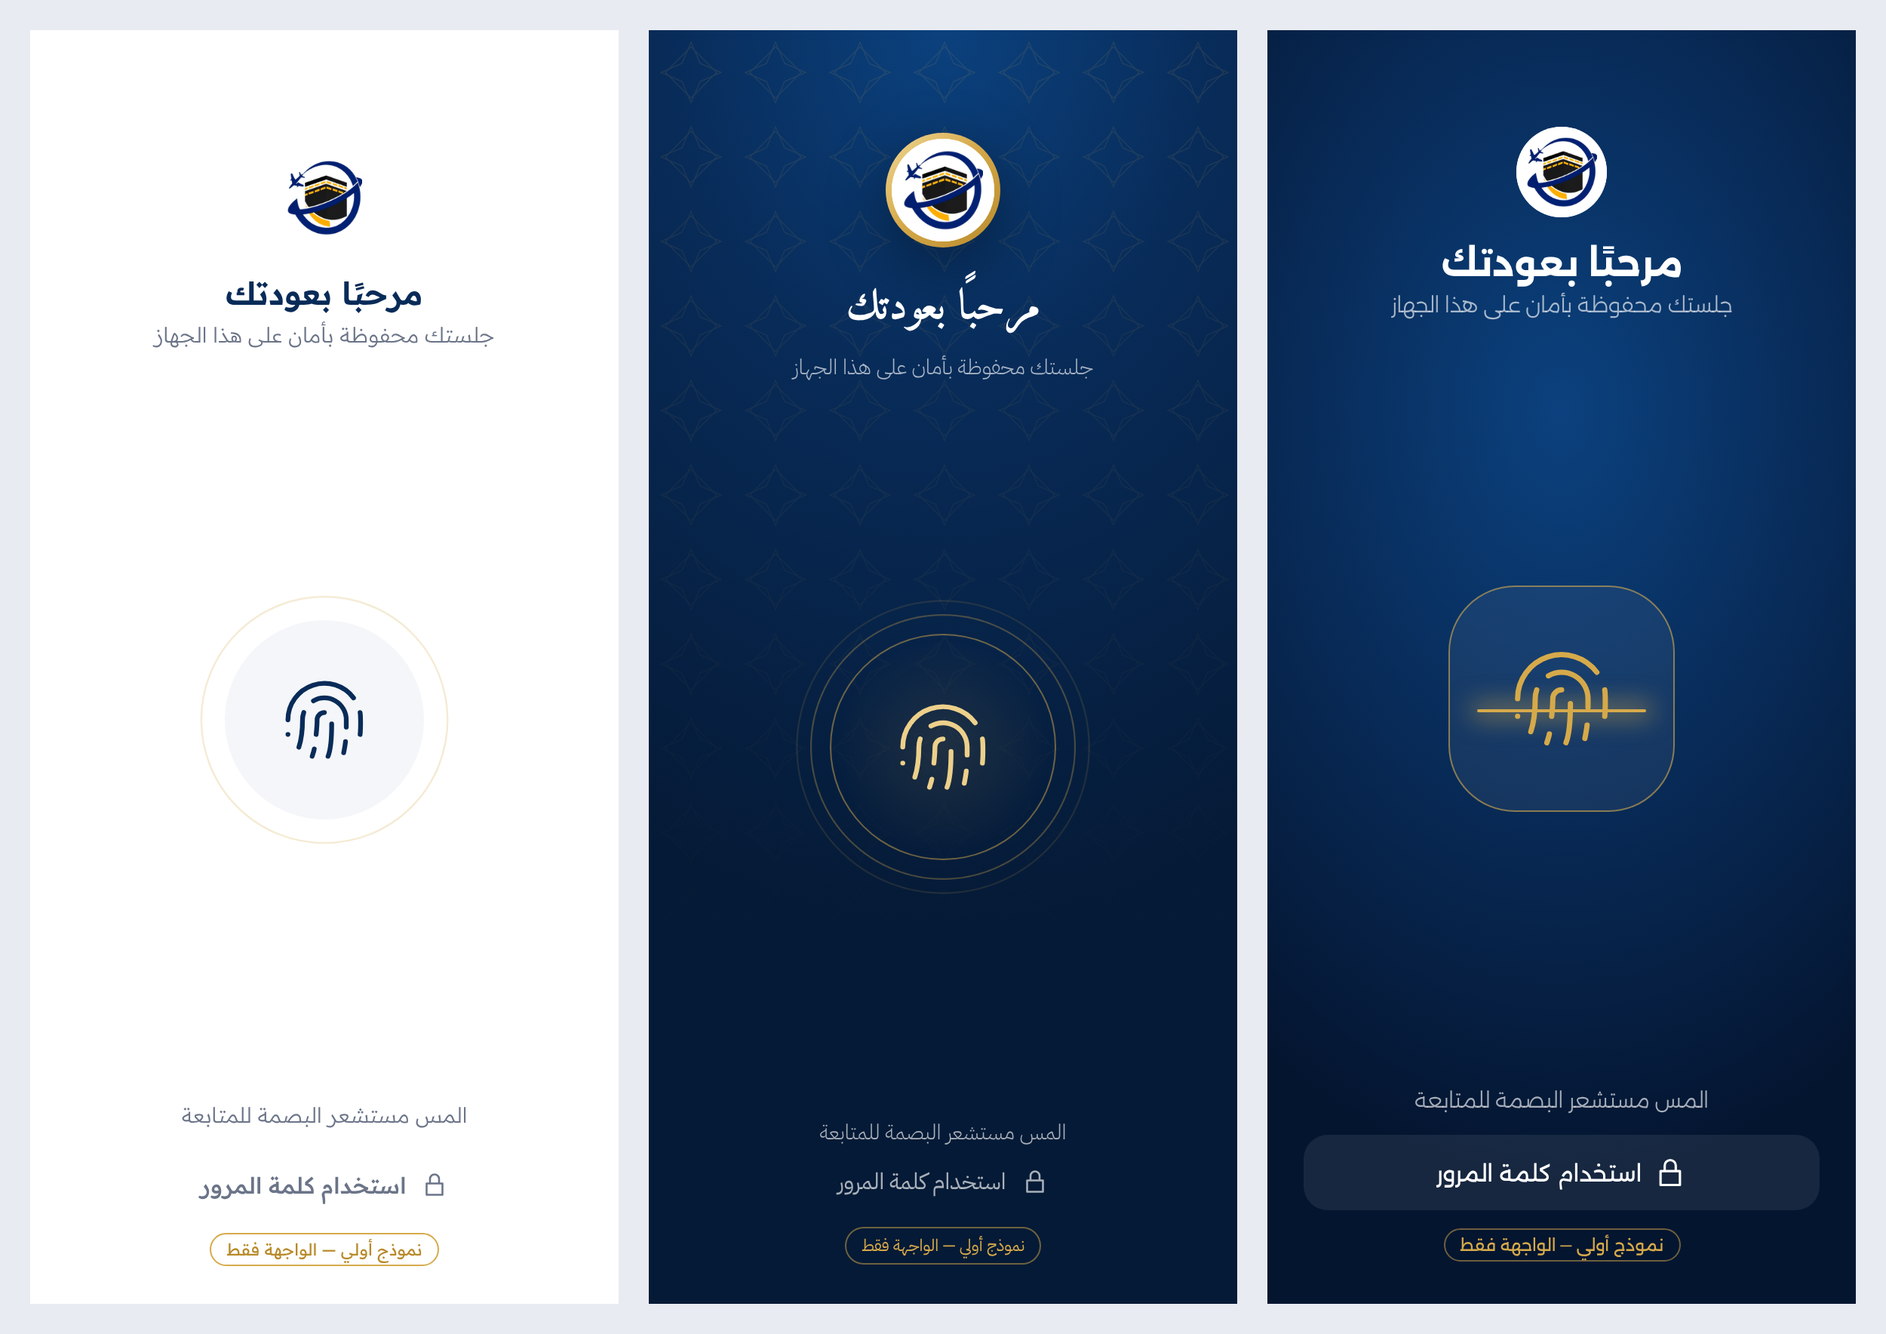
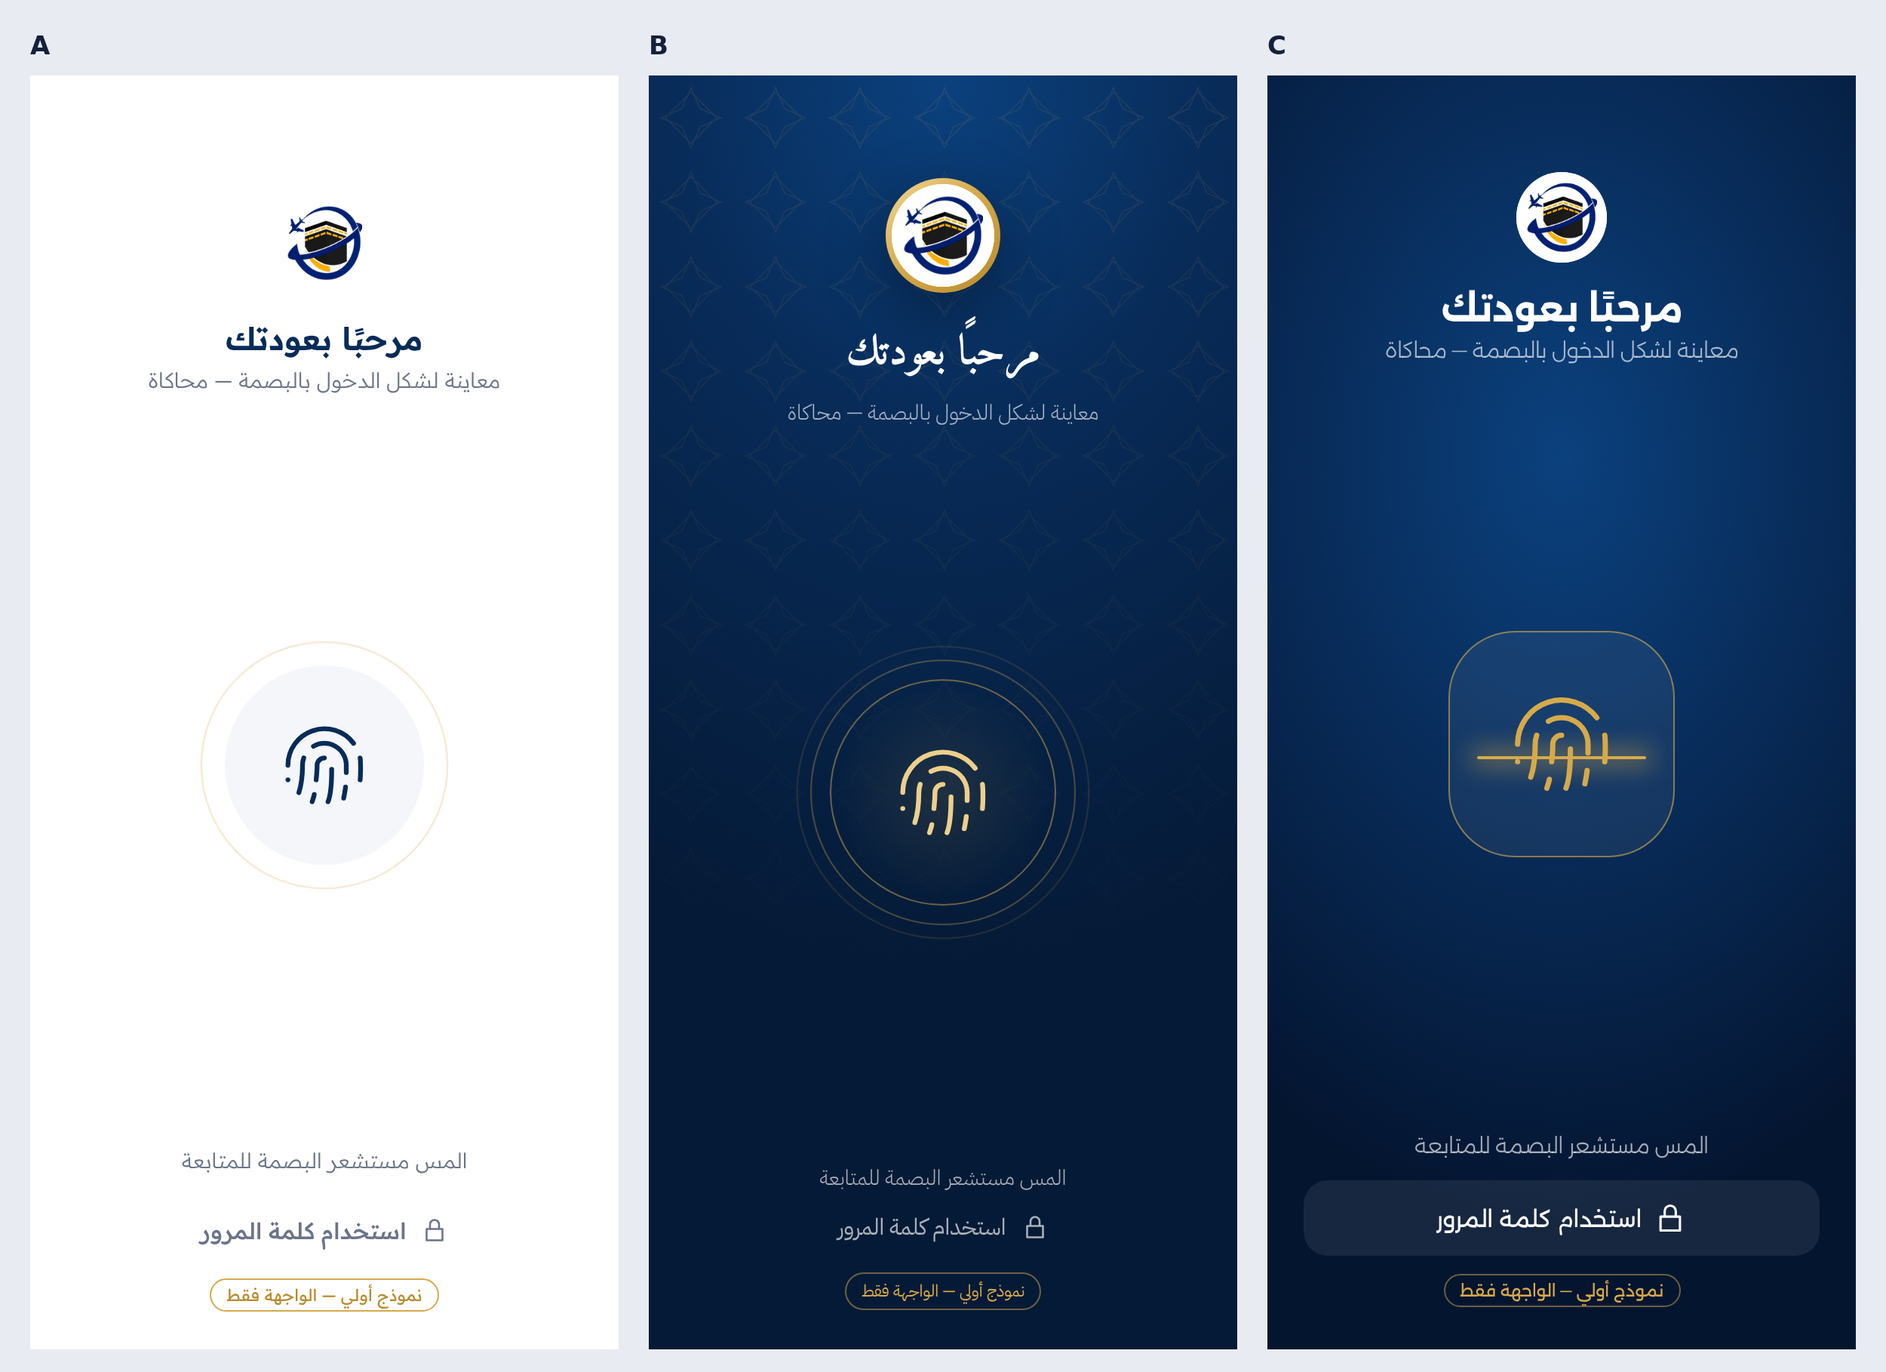
design(mobile): final proposal fixes — 48px targets, 2x2 steps, biometric simulation
Prototype only, inside mobile/design-concepts/:
- every touch target is at least 48x48px
- request steps switch to 2x2 when narrow (container query, follows text zoom)
- biometric screen is an explicit simulation: no session/security claims,
  tap only changes on-screen text (same wording fix in concepts A/B/C)
- checker now covers vertical clipping, parent clipping and touch sizes,
  labels 130% zoom as a Chromium simulation (not an Android test) and
  writes screens/final/checks/run-results.txt

Claude-Session: https://claude.ai/code/session_01EF61v88GwqaFUaS6TBG3ia

diff --git a/mobile/design-concepts/final.html b/mobile/design-concepts/final.html
@@ -23,6 +23,7 @@
 html,body{height:100%}
 body{font-family:var(--f);background:var(--night);color:var(--ink);-webkit-font-smoothing:antialiased}
 button{font:inherit;cursor:pointer;border:0;background:none;color:inherit}
+[hidden]{display:none!important}
 button:focus-visible{outline:2px solid var(--gold-hi);outline-offset:2px}
 .ic{width:1.375rem;height:1.375rem;flex:none}
 #app{height:100%;display:flex;flex-direction:column;overflow:hidden;position:relative}
@@ -57,15 +58,17 @@ button:focus-visible{outline:2px solid var(--gold-hi);outline-offset:2px}
 
 /* Returning */
 .r{position:relative;flex:1;display:flex;flex-direction:column;align-items:center;padding:1.5rem 1.25rem 1.25rem;overflow-y:auto}
-.r .medal{width:4.25rem;height:4.25rem;margin-top:3vh}
+.r .medal{width:4.25rem;height:4.25rem;margin-top:1.25rem}
 .r h2{font-weight:600;font-size:1.5rem;margin-top:.9rem;color:#fff}
 .r p{color:var(--on-navy);font-size:.9375rem;margin-top:.25rem;text-align:center}
 .fp{margin:auto;width:8.5rem;height:8.5rem;flex:none;border-radius:50%;display:grid;place-items:center;color:var(--gold-hi);position:relative;border:1.5px solid rgba(214,170,75,.7);background:radial-gradient(circle,rgba(214,170,75,.16),transparent 70%)}
 .fp .ic{width:3.75rem;height:3.75rem;stroke-width:1.3}
 .fp::after{content:"";position:absolute;inset:-12px;border-radius:50%;border:1px solid rgba(214,170,75,.45);animation:halo 2.8s ease-out infinite}
 @keyframes halo{0%{transform:scale(.92);opacity:1}100%{transform:scale(1.2);opacity:0}}
-.proto{display:flex;align-items:center;gap:.5rem;margin-top:.9rem;font-size:.8125rem;color:var(--gold-hi);background:rgba(214,170,75,.12);border:1px solid rgba(214,170,75,.55);border-radius:12px;padding:.5rem .8rem;text-align:start}
-.proto .ic{width:1rem;height:1rem}
+.sim{position:relative;width:100%;display:flex;align-items:flex-start;gap:.5rem;font-size:.8125rem;color:var(--gold-hi);background:rgba(214,170,75,.12);border:1px solid rgba(214,170,75,.55);border-radius:12px;padding:.5rem .8rem;text-align:start}
+.sim .ic{width:1.1rem;height:1.1rem;margin-top:.1rem}
+.sim b{font-weight:600}
+#simstate{min-height:1.5em}
 .r .stack{width:100%;display:grid;gap:.6rem;margin-top:1rem}
 
 /* App header — compact */
@@ -76,8 +79,8 @@ button:focus-visible{outline:2px solid var(--gold-hi);outline-offset:2px}
 .bar .t{flex:1;min-width:0}
 .bar .t small{display:block;color:var(--on-navy);font-size:.75rem}
 .bar .t b{font-weight:600;font-size:1.125rem}
-.ring{flex:none;width:2.75rem;height:2.75rem;border-radius:50%;border:1px solid rgba(214,170,75,.6);display:grid;place-items:center;color:var(--gold-hi)}
-.search{position:relative;margin-top:.8rem;display:flex;align-items:center;gap:.6rem;min-height:2.75rem;border-radius:12px;background:rgba(255,255,255,.12);border:1px solid rgba(255,255,255,.22);padding:0 .85rem;color:var(--on-navy);font-size:.875rem}
+.ring{flex:none;width:max(48px,3rem);height:max(48px,3rem);border-radius:50%;border:1px solid rgba(214,170,75,.6);display:grid;place-items:center;color:var(--gold-hi)}
+.search{position:relative;width:100%;text-align:start;margin-top:.8rem;display:flex;align-items:center;gap:.6rem;min-height:max(48px,3rem);border-radius:12px;background:rgba(255,255,255,.12);border:1px solid rgba(255,255,255,.22);padding:0 .85rem;color:var(--on-navy);font-size:.875rem}
 .search .ic{width:1.1rem;height:1.1rem}
 
 .body{flex:1;overflow-y:auto;background:var(--pearl);padding:1rem 1rem 1.25rem}
@@ -88,30 +91,37 @@ button:focus-visible{outline:2px solid var(--gold-hi);outline-offset:2px}
 .umrah .archlet{position:relative;grid-row:span 2;width:2.9rem;height:3.4rem;border-radius:1.45rem 1.45rem 7px 7px;border:1px solid var(--gold);display:grid;place-items:center;color:var(--gold-hi)}
 .umrah h3{position:relative;font-weight:600;font-size:1.0625rem}
 .umrah p{position:relative;font-size:.8125rem;color:var(--on-navy);line-height:1.5}
-.umrah .cta{position:relative;grid-column:1 / -1;margin-top:.6rem;min-height:2.75rem;border-radius:12px;background:var(--leaf);color:var(--night);font-weight:600;font-size:.9375rem;display:flex;align-items:center;justify-content:center;gap:.5rem}
+.umrah .cta{position:relative;grid-column:1 / -1;margin-top:.6rem;min-height:max(48px,3rem);border-radius:12px;background:var(--leaf);color:var(--night);font-weight:600;font-size:.9375rem;display:flex;align-items:center;justify-content:center;gap:.5rem}
 .umrah .cta .ic{width:1.1rem;height:1.1rem}
 
 .sec{display:flex;align-items:center;gap:.6rem;margin:1.25rem 0 .7rem}
 .sec h4{font-weight:600;font-size:1rem;color:var(--ink)}
 .sec i{flex:1;height:1px;background:var(--line)}
-.sec a{font-size:.8125rem;color:var(--gold-ink);font-weight:600;text-decoration:none;padding:.4rem 0}
+.sec a{display:inline-flex;align-items:center;justify-content:center;min-height:48px;min-width:48px;padding:0 .3rem;font-size:.8125rem;color:var(--gold-ink);font-weight:600;text-decoration:none}
 .tiles{display:grid;grid-template-columns:repeat(3,minmax(0,1fr));gap:.6rem}
 .tile{background:var(--card);border:1px solid var(--line);border-radius:14px;padding:.75rem .35rem;display:flex;flex-direction:column;align-items:center;gap:.45rem;text-align:center;font-size:.8125rem;line-height:1.4;color:var(--ink);min-height:5.5rem;overflow-wrap:anywhere}
 .tile .ic{color:var(--navy);width:1.4rem;height:1.4rem}
 
-/* Steps (from C) */
+/* Steps (from C) — 4 across when roomy, 2×2 when narrow */
+.stepsbox{container-type:inline-size}
 .steps{display:grid;grid-template-columns:repeat(4,minmax(0,1fr));gap:.25rem;background:var(--card);border:1px solid var(--line);border-radius:16px;padding:.85rem .4rem;position:relative}
 .steps::before{content:"";position:absolute;top:1.65rem;right:12.5%;left:12.5%;height:2px;background:repeating-linear-gradient(270deg,var(--gold) 0 6px,transparent 6px 11px)}
 .step{display:flex;flex-direction:column;align-items:center;gap:.4rem;text-align:center;font-size:.75rem;line-height:1.4;color:var(--muted);position:relative;overflow-wrap:anywhere}
 .step i{width:1.75rem;height:1.75rem;border-radius:50%;background:var(--navy);color:#fff;font-style:normal;font-weight:600;font-size:.8125rem;display:grid;place-items:center;box-shadow:0 0 0 4px var(--card)}
 .step:first-child i{background:var(--gold);color:var(--night)}
+@container (max-width:22rem){
+  .steps{grid-template-columns:repeat(2,minmax(0,1fr));gap:.5rem;padding:.6rem}
+  .steps::before{display:none}
+  .step{flex-direction:row;text-align:start;gap:.5rem;padding:.45rem .5rem;border-radius:10px;background:var(--pearl);min-height:3rem}
+  .step i{flex:none;box-shadow:none}
+}
 
 .guest{margin-top:.7rem;border-radius:16px;padding:.85rem;display:flex;align-items:center;gap:.7rem;background:var(--card);border:1px solid var(--line)}
 .guest>.ic{color:var(--gold-ink)}
 .guest div{flex:1;min-width:0}
 .guest b{display:block;font-size:.875rem;font-weight:600}
 .guest small{color:var(--muted);font-size:.8125rem}
-.guest .mini{flex:none;background:var(--navy);color:#fff;border-radius:10px;min-height:2.5rem;padding:0 .9rem;font-size:.875rem;font-weight:500}
+.guest .mini{flex:none;background:var(--navy);color:#fff;border-radius:10px;min-height:max(48px,3rem);min-width:48px;padding:0 .9rem;font-size:.875rem;font-weight:500}
 
 /* Services list (from A) */
 .group h5{display:flex;align-items:center;gap:.5rem;font-size:.875rem;color:var(--navy);font-weight:600;margin:1.1rem .1rem .45rem}
@@ -126,7 +136,7 @@ button:focus-visible{outline:2px solid var(--gold-hi);outline-offset:2px}
 
 /* Bottom nav — in the flex flow, never overlays content */
 .nav{flex:none;display:flex;background:var(--night);padding:.45rem .25rem calc(.55rem + env(safe-area-inset-bottom,0px));border-top:1px solid rgba(214,170,75,.3)}
-.nav button{flex:1;min-width:0;min-height:3rem;display:flex;flex-direction:column;align-items:center;justify-content:center;gap:.2rem;font-size:.75rem;color:rgba(255,255,255,.72)}
+.nav button{flex:1;min-width:48px;min-height:max(48px,3rem);display:flex;flex-direction:column;align-items:center;justify-content:center;gap:.2rem;font-size:.75rem;color:rgba(255,255,255,.72)}
 .nav button.on{color:var(--gold-hi);font-weight:500}
 </style>
 </head>
@@ -137,6 +147,8 @@ button:focus-visible{outline:2px solid var(--gold-hi);outline-offset:2px}
 // ?zoom=1.3 simulates Android text zoom (review only)
 var z = /zoom=([\d.]+)/.exec(location.search); if (z) document.documentElement.style.fontSize = (16 * +z[1]) + 'px';
 var I = N.icon;
+// Fingerprint tap only flips the on-screen text: no sensor, no storage, no auth call.
+document.addEventListener('click',function(e){if(!e.target.closest('[data-sim]'))return;document.getElementById('simstate').textContent='تمت المحاكاة — لم يتم التحقق من أي بصمة';document.getElementById('simgo').hidden=false});
 function medal(){return '<div class="medal"><div class="logo"><img src="assets/logo-mark.png" alt="نسائم الحرمين"></div></div>'}
 function nav(on){return '<nav class="nav">'+N.tabs.map(function(t){return '<button class="'+(t.k===on?'on':'')+'" data-go="home"'+(t.k===on?' aria-current="page"':'')+'>'+I(t.i)+t.n+'</button>'}).join('')+'</nav>'}
 N.mount({
@@ -150,27 +162,28 @@ N.mount({
       '<button class="btn soft rise d4" data-go="home">'+I('user')+'الدخول كزائر</button>'+
     '</div></section>'},
   returning:function(){return '<div class="night"></div><section class="r">'+
+    '<div class="sim" role="note">'+I('info')+'<span><b>محاكاة للواجهة فقط.</b> لا تُقرأ أي بصمة ولا يُحفظ أي شيء على الجهاز.</span></div>'+
     '<div class="rise">'+medal()+'</div>'+
-    '<h2 class="rise d2">مرحبًا بعودتك</h2><p class="rise d2">جلستك محفوظة بأمان على هذا الجهاز</p>'+
-    '<button class="fp rise d3" data-go="home" aria-label="الدخول بالبصمة">'+I('finger')+'</button>'+
-    '<p>المس مستشعر البصمة للمتابعة</p>'+
-    '<div class="stack"><button class="btn soft">'+I('lock')+'الدخول بكلمة المرور</button></div>'+
-    '<div class="proto" role="note">'+I('shield')+'نموذج واجهة فقط — الدخول بالبصمة غير مفعّل بعد</div></section>'},
+    '<h2 class="rise d2">مرحبًا بعودتك</h2><p class="rise d2">معاينة لشكل الدخول بالبصمة للمستخدم العائد</p>'+
+    '<button class="fp rise d3" data-sim aria-label="تجربة محاكاة الدخول بالبصمة">'+I('finger')+'</button>'+
+    '<p id="simstate" aria-live="polite">اضغط على الأيقونة لتجربة المحاكاة</p>'+
+    '<div class="stack"><button class="btn gold" id="simgo" data-go="home" hidden>متابعة إلى الرئيسية (محاكاة)</button>'+
+    '<button class="btn soft">'+I('lock')+'الدخول بكلمة المرور</button></div></section>'},
   home:function(){return '<header class="hd"><div class="bar">'+medal()+
     '<div class="t"><small>نسائم الحرمين</small><b>أهلًا بك</b></div><button class="ring" aria-label="الإشعارات">'+I('bell')+'</button></div>'+
-    '<div class="search">'+I('search')+'ابحث عن خدمة</div></header>'+
+    '<button class="search" data-go="services">'+I('search')+'ابحث عن خدمة</button></header>'+
     '<div class="body">'+
     '<div class="umrah rise"><div class="archlet">'+I('kaaba')+'</div><h3>خدمات العمرة</h3><p>تأشيرة فقط أو عمرة مع الخدمات</p>'+
     '<button class="cta" data-go="services">اطلب الخدمة'+I('fwd')+'</button></div>'+
     '<div class="sec"><h4>الخدمات</h4><i></i><a href="#services">عرض الكل (9)</a></div>'+
     '<div class="tiles rise d2">'+['flight','hotel','ferry','family','egypt','tasheel'].map(function(k){var s=N.svc(k);return '<button class="tile" data-go="services">'+I(s.i)+s.n+'</button>'}).join('')+'</div>'+
     '<div class="sec"><h4>كيف يعمل طلبك</h4><i></i></div>'+
-    '<div class="steps rise d3">'+['اختر الخدمة','أرسل بياناتك','وافق على عرض السعر','تابع طلبك'].map(function(s,i){return '<div class="step"><i>'+(i+1)+'</i>'+s+'</div>'}).join('')+'</div>'+
+    '<div class="stepsbox rise d3"><div class="steps">'+['اختر الخدمة','أرسل بياناتك','وافق على عرض السعر','تابع طلبك'].map(function(s,i){return '<div class="step"><i>'+(i+1)+'</i><span>'+s+'</span></div>'}).join('')+'</div></div>'+
     '<div class="guest rise d4">'+I('list')+'<div><b>تتبّع طلباتك</b><small>سجّل الدخول لمتابعة حالة طلباتك</small></div><button class="mini" data-go="welcome">دخول</button></div>'+
     '</div>'+nav('home')},
   services:function(){return '<header class="hd"><div class="bar"><button class="ring" data-go="home" aria-label="رجوع">'+I('back')+'</button>'+
     '<div class="t"><small>اختر الخدمة وأرسل طلبك</small><b>كل الخدمات</b></div></div>'+
-    '<div class="search">'+I('search')+'ابحث عن خدمة</div></header>'+
+    '<button class="search">'+I('search')+'ابحث عن خدمة</button></header>'+
     '<div class="body">'+N.groups.map(function(g){return '<div class="group"><h5><b></b>'+g.n+'</h5><div class="card">'+
       N.inGroup(g.k).map(function(s){return '<button class="row"><span class="sq">'+I(s.i)+'</span><span>'+s.n+'</span>'+I('chev','chev')+'</button>'}).join('')+'</div></div>'}).join('')+
     '</div>'+nav('home')}

diff --git a/mobile/design-concepts/concept-c.html b/mobile/design-concepts/concept-c.html
@@ -145,7 +145,7 @@ var V = {
     '<button class="act reg press pop d4">'+I('userPlus')+'إنشاء حساب</button></div>'+
     '<button class="guestbtn press pop d5" data-go="home">الدخول كزائر'+I('fwd')+'</button></section>'},
   returning:function(){return '<section class="ret">'+mark('mk pop')+
-    '<h2 class="pop d2">مرحبًا بعودتك</h2><p class="pop d2">جلستك محفوظة بأمان على هذا الجهاز</p>'+
+    '<h2 class="pop d2">مرحبًا بعودتك</h2><p class="pop d2">معاينة لشكل الدخول بالبصمة — محاكاة</p>'+
     '<button class="scan press pop d3" data-go="home" aria-label="الدخول بالبصمة">'+I('finger')+'</button>'+
     '<p style="margin-bottom:14px">المس مستشعر البصمة للمتابعة</p>'+
     '<button class="pw press">'+I('lock')+'استخدام كلمة المرور</button><span class="tag">نموذج أولي — الواجهة فقط</span></section>'},

diff --git a/mobile/design-concepts/concept-a.html b/mobile/design-concepts/concept-a.html
@@ -121,7 +121,7 @@ N.mount({
     '</div></section>'},
   returning:function(){return '<section class="r">'+
     '<div class="mark logo fade"><img src="assets/logo-mark.png" alt=""></div>'+
-    '<h2 class="fade d2">مرحبًا بعودتك</h2><p class="fade d2">جلستك محفوظة بأمان على هذا الجهاز</p>'+
+    '<h2 class="fade d2">مرحبًا بعودتك</h2><p class="fade d2">معاينة لشكل الدخول بالبصمة — محاكاة</p>'+
     '<button class="fp fade d3" data-go="home" aria-label="الدخول بالبصمة">'+I('finger')+'</button>'+
     '<div class="alt"><p style="text-align:center;margin-bottom:6px">المس مستشعر البصمة للمتابعة</p>'+
     '<button class="btn ghost">'+I('lock')+'استخدام كلمة المرور</button>'+

diff --git a/mobile/design-concepts/concept-b.html b/mobile/design-concepts/concept-b.html
@@ -142,7 +142,7 @@ N.mount({
     '</div></section>'},
   returning:function(){return '<div class="night"></div><section class="r">'+
     '<div class="rise">'+medal()+'</div>'+
-    '<h2 class="rise d2">مرحبًا بعودتك</h2><p class="rise d2">جلستك محفوظة بأمان على هذا الجهاز</p>'+
+    '<h2 class="rise d2">مرحبًا بعودتك</h2><p class="rise d2">معاينة لشكل الدخول بالبصمة — محاكاة</p>'+
     '<button class="fp rise d3" data-go="home" aria-label="الدخول بالبصمة">'+I('finger')+'</button>'+
     '<p>المس مستشعر البصمة للمتابعة</p>'+
     '<button class="btn text" style="width:100%">'+I('lock')+'استخدام كلمة المرور</button>'+

diff --git a/mobile/design-concepts/shared.js b/mobile/design-concepts/shared.js
@@ -25,6 +25,7 @@
     chev: 'M15 18l-6-6 6-6',
     search: 'M11 4a7 7 0 1 0 0 14a7 7 0 1 0 0-14zM21 21l-4.3-4.3',
     plus: 'M12 5v14M5 12h14',
+    info: 'M12 2a10 10 0 1 0 0 20a10 10 0 1 0 0-20zM12 16v-5M12 8h.01',
     guest: 'M12 3a9 9 0 1 0 0 18a9 9 0 1 0 0-18zM12 7v5l3 2'
   };
 
